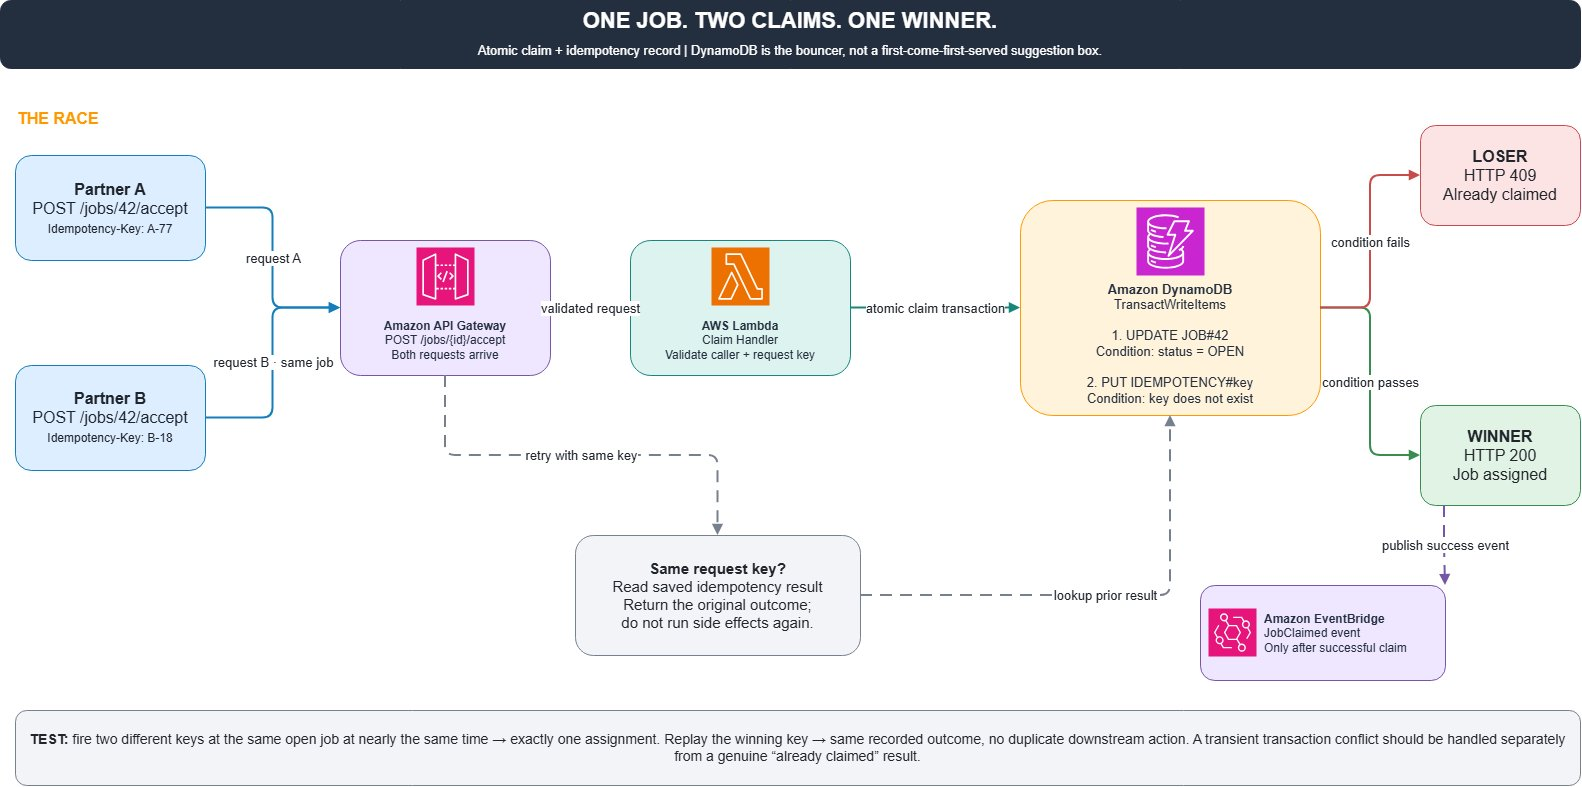
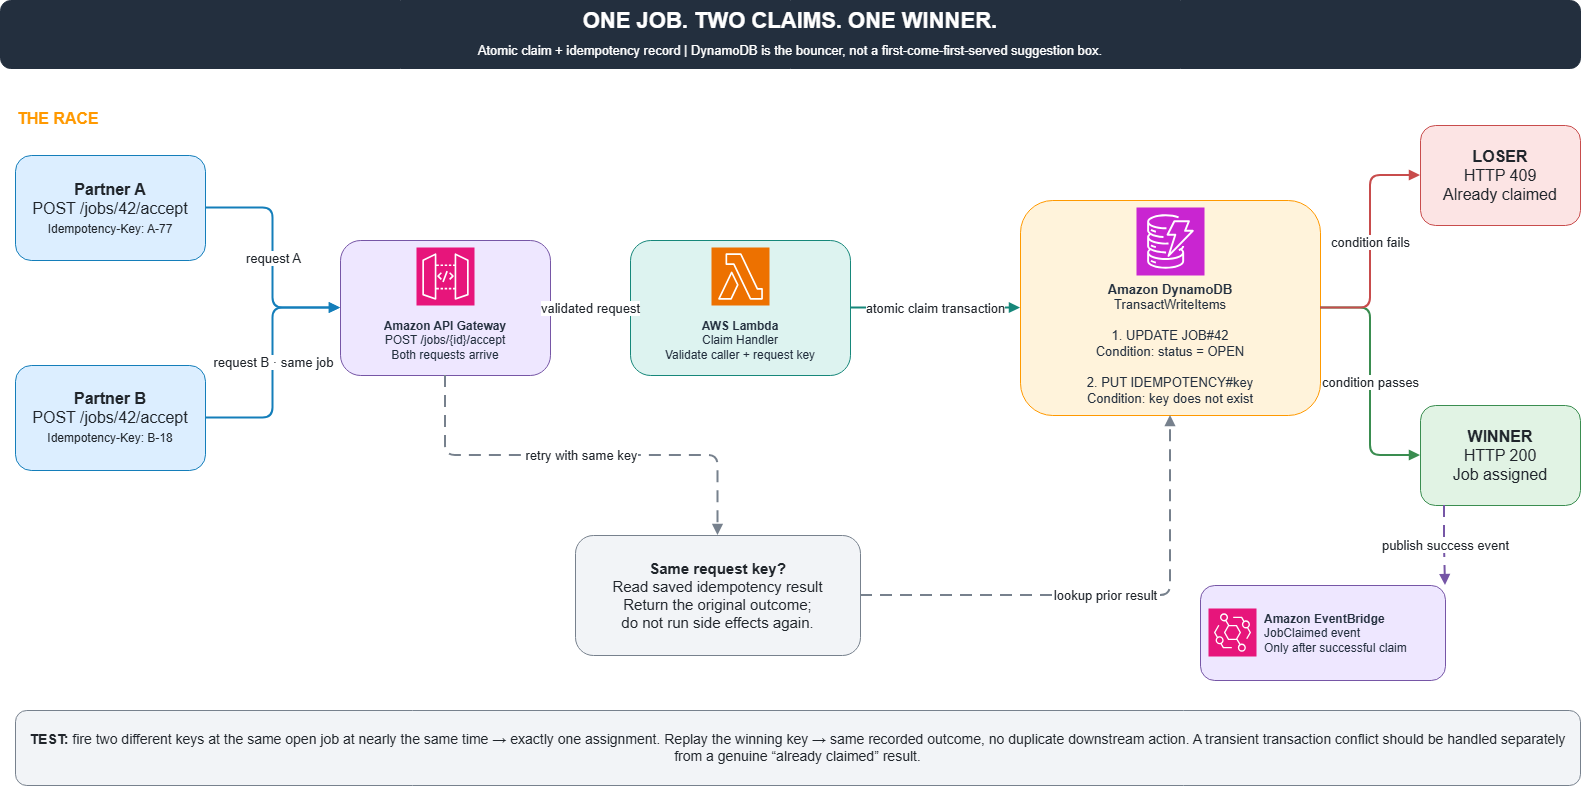
fix(blogs): replace compressed diagrams with high-res draw.io exports for posts 1-3

diff --git a/static/css/theme-workshop.css b/static/css/theme-workshop.css
@@ -226,3 +226,14 @@ div.notices.info p {
   border-top: 30px solid #fd9827;
   background: #fff2db;
 }
+
+/* Responsive and crisp image rendering for diagrams and photos */
+#body img {
+  max-width: 100% !important;
+  height: auto !important;
+  display: block;
+  margin: 2rem auto;
+  border-radius: 6px;
+  box-shadow: 0 4px 16px rgba(0, 0, 0, 0.08);
+}
+
